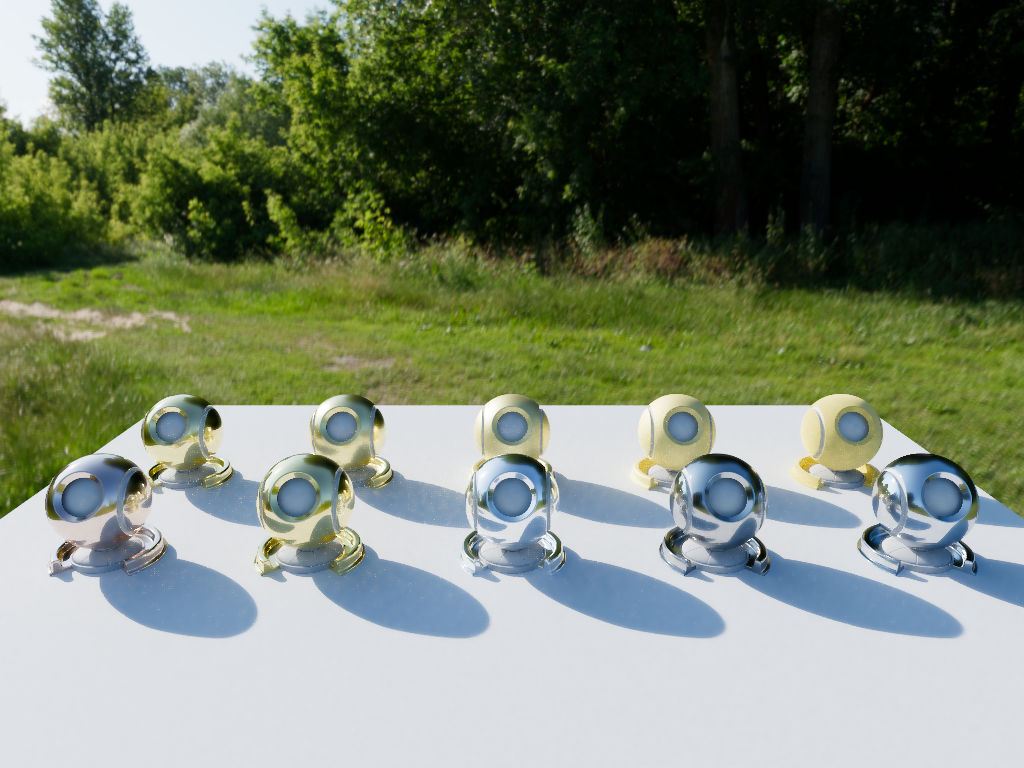
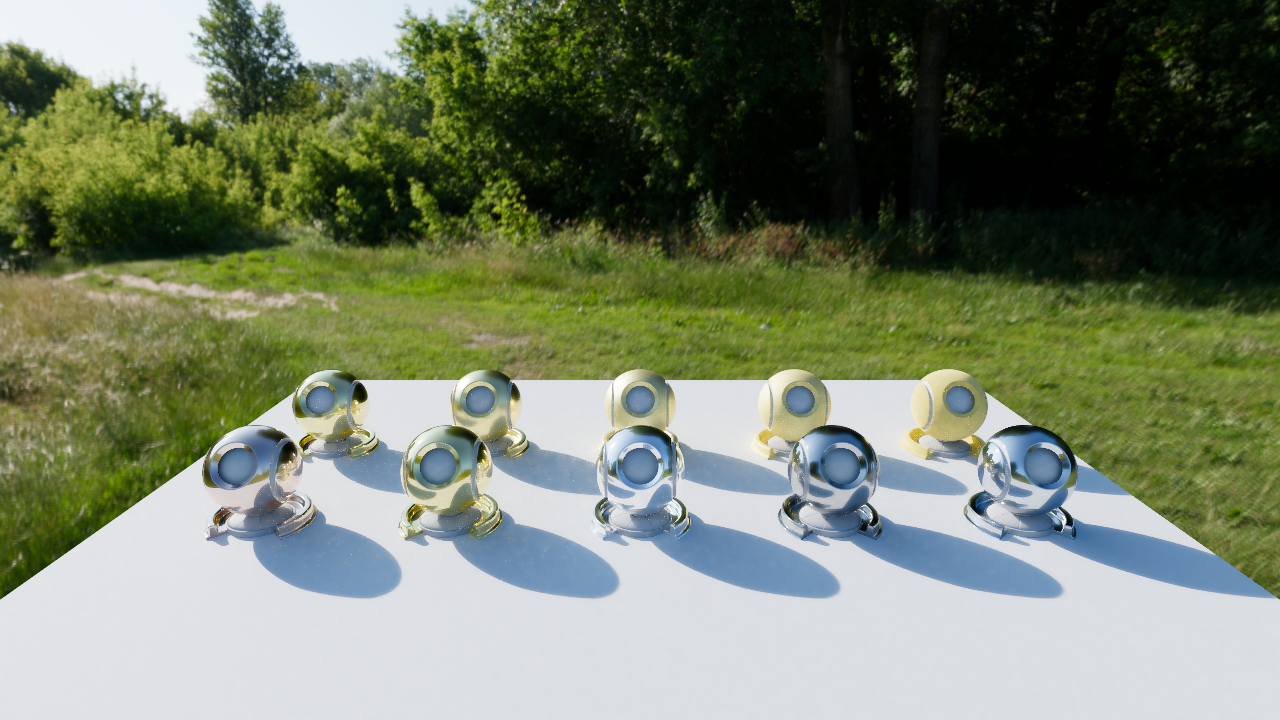
chore: release v0.7.0
256-frame screenshot gallery (29 scenes, 1280x720). Docs: deleted-scene refs + look_at drift fixed; document 64spp Hyperion screenshot standard. Pin Aether/Harmonia v0.7.0.

diff --git a/README.md b/README.md
@@ -14,31 +14,47 @@ It implements the [OpenPBR Surface v1.1.1](https://academysoftwarefoundation.git
 
 ## Screenshots
 
-*Same test scenes as [Hyperion](https://github.com/McNopper/Hyperion) — converged to visual parity through accumulation.*
+*Same 29 test scenes as [Hyperion](https://github.com/McNopper/Hyperion) — converged to visual parity through accumulation.* Theia at **256 frames**, 1280×720.
 
-| Cornell Box | Spheres | Suzanne |
-|:-----------:|:-------:|:-------:|
-| ![cornell_classic](screenshots/cornell_classic.png) | ![cornell_spheres](screenshots/cornell_spheres.png) | ![cornell_suzanne](screenshots/cornell_suzanne.png) |
+| cornell_classic | cornell_classic_rec709 | cornell_empty |
+|:---:|:---:|:---:|
+| ![cornell_classic](screenshots/cornell_classic.png) | ![cornell_classic_rec709](screenshots/cornell_classic_rec709.png) | ![cornell_empty](screenshots/cornell_empty.png) |
 
-| Metals | Dielectrics | Coat |
-|:------:|:-----------:|:----:|
+| cornell_spheres | cornell_suzanne | cornell_textured_cube |
+|:---:|:---:|:---:|
+| ![cornell_spheres](screenshots/cornell_spheres.png) | ![cornell_suzanne](screenshots/cornell_suzanne.png) | ![cornell_textured_cube](screenshots/cornell_textured_cube.png) |
+
+| openpbr_metals | openpbr_dielectrics | openpbr_coat |
+|:---:|:---:|:---:|
 | ![openpbr_metals](screenshots/openpbr_metals.png) | ![openpbr_dielectrics](screenshots/openpbr_dielectrics.png) | ![openpbr_coat](screenshots/openpbr_coat.png) |
 
-| Fuzz | Specular | Organics |
-|:----:|:--------:|:--------:|
+| openpbr_fuzz | openpbr_specular | openpbr_organics |
+|:---:|:---:|:---:|
 | ![openpbr_fuzz](screenshots/openpbr_fuzz.png) | ![openpbr_specular](screenshots/openpbr_specular.png) | ![openpbr_organics](screenshots/openpbr_organics.png) |
 
-| Thin-film | Textured Cube | Dragon & Teapot (IBL) |
-|:---------:|:-------------:|:---------------------:|
-| ![openpbr_thinfilm](screenshots/openpbr_thinfilm.png) | ![cornell_textured_cube](screenshots/cornell_textured_cube.png) | ![dragon_teapot](screenshots/dragon_teapot.png) |
+| openpbr_thinfilm | openpbr_advanced | shaderball_base |
+|:---:|:---:|:---:|
+| ![openpbr_thinfilm](screenshots/openpbr_thinfilm.png) | ![openpbr_advanced](screenshots/openpbr_advanced.png) | ![shaderball_base](screenshots/shaderball_base.png) |
 
-| Advanced Transmission | A Beautiful Game (IBL) | Bunny + ShaderBall (IBL) |
-|:----------------------:|:------------------------:|:------------------------:|
-| ![openpbr_advanced](screenshots/openpbr_advanced.png) | ![ABeautifulGame](screenshots/ABeautifulGame.png) | ![bunny_shaderball](screenshots/bunny_shaderball.png) |
+| shaderball_coat | shaderball_fuzz | shaderball_metal |
+|:---:|:---:|:---:|
+| ![shaderball_coat](screenshots/shaderball_coat.png) | ![shaderball_fuzz](screenshots/shaderball_fuzz.png) | ![shaderball_metal](screenshots/shaderball_metal.png) |
 
-| Blender Export |
-|:------------------------:|
-| ![camera_suzanne](screenshots/camera_suzanne.png) |
+| shaderball_opacity | shaderball_specular | shaderball_subsurface |
+|:---:|:---:|:---:|
+| ![shaderball_opacity](screenshots/shaderball_opacity.png) | ![shaderball_specular](screenshots/shaderball_specular.png) | ![shaderball_subsurface](screenshots/shaderball_subsurface.png) |
+
+| shaderball_thinfilm | shaderball_transmission | shaderball_emission |
+|:---:|:---:|:---:|
+| ![shaderball_thinfilm](screenshots/shaderball_thinfilm.png) | ![shaderball_transmission](screenshots/shaderball_transmission.png) | ![shaderball_emission](screenshots/shaderball_emission.png) |
+
+| shader_ball | bunny_shaderball | camera_suzanne |
+|:---:|:---:|:---:|
+| ![shader_ball](screenshots/shader_ball.png) | ![bunny_shaderball](screenshots/bunny_shaderball.png) | ![camera_suzanne](screenshots/camera_suzanne.png) |
+
+| ABeautifulGame | dragon_teapot |
+|:---:|:---:|
+| ![ABeautifulGame](screenshots/ABeautifulGame.png) | ![dragon_teapot](screenshots/dragon_teapot.png) |
 
 ---
 
@@ -111,7 +127,7 @@ reference = "presets/preview.render.toml"      # shared preset; inline keys over
 working_color_space = "lin_rec2020_scene"      # or "lin_rec709_scene"
 
 [camera]
-reference = "presets/cornell.camera.toml"      # translate / look_at / vfov / ev100
+reference = "presets/cornell.camera.toml"      # translate / rotate / vfov / ev100
 
 [tonemap]
 tonemapper = "agx"                             # aces | agx | reinhard | hable

diff --git a/AGENTS.md b/AGENTS.md
@@ -52,7 +52,7 @@ Theia-specific (not in Harmonia).
 
 ```powershell
 build/theia.exe --scene cornell_classic --output out.exr               # headless EXR+PNG
-build/theia.exe --scene fixture_ibl                                    # interactive window
+build/theia.exe --scene shaderball_base                               # interactive window
 ```
 
 CLI flags: `--scene/-s`, `--output/-o` (headless EXR+PNG), `--width`, `--height`,
@@ -70,6 +70,11 @@ Parity vs Hyperion and showcase screenshots use the unified accumulation RT path
 Compare with `Harmonia/tools/compare_renders.py ref.exr cand.exr` (pass = mean_diff <= 4.0,
 pre-tonemap EXR, same color space).
 
+**Screenshot gallery** (`screenshots/`, 1280×720 PNG): Theia renders 256 frames. The matching
+Hyperion screenshots use **64 spp** (fireflies acceptable — 256 spp is too slow for the full
+29-scene set); a parity *reference* is distinct and uses a clean Hyperion **256 spp** EXR at
+the 320×240 parity resolution.
+
 ## Gotchas (each has cost a debug cycle)
 
 - **Assets come from `build/_deps/aether-src/assets/`** (FetchContent clone), NOT the working
@@ -82,7 +87,7 @@ pre-tonemap EXR, same color space).
   (`gi.comp.slang` → shared `path_integrator`) providing path-traced multi-bounce indirect
   (diffuse + specular + env-NEE) and transmission/refraction, default-on (`--no-rt-gi` to
   disable). The old "single-bounce IBL + flat ambient, darker than Hyperion" gap is closed for
-  the unified pipeline. The isolated-diffuse `fixture_ibl` passes at 1.76.
+  the unified pipeline.
 - **Bulk subsurface + transmission-scatter run the shared volumetric walk in `gi.comp`:** the
   compute loop executes the same chromatic hero-wavelength free-flight/scatter/boundary
   estimator as Hyperion (`runMediumWalk`), on both primary and secondary vertices. `sampleBSDF`
@@ -113,7 +118,7 @@ pre-tonemap EXR, same color space).
 ## Test scenes
 
 - Quick parity/iteration (cheap): `cornell_classic`, `cornell_spheres`, `cornell_suzanne`,
-  `dragon_teapot`, `fixture_ibl`.
+  `dragon_teapot`.
 - **Never** use `ABeautifulGame` for quick test renders — expensive. (Required only in final
   screenshot/render *deliverable* batches.)
 
